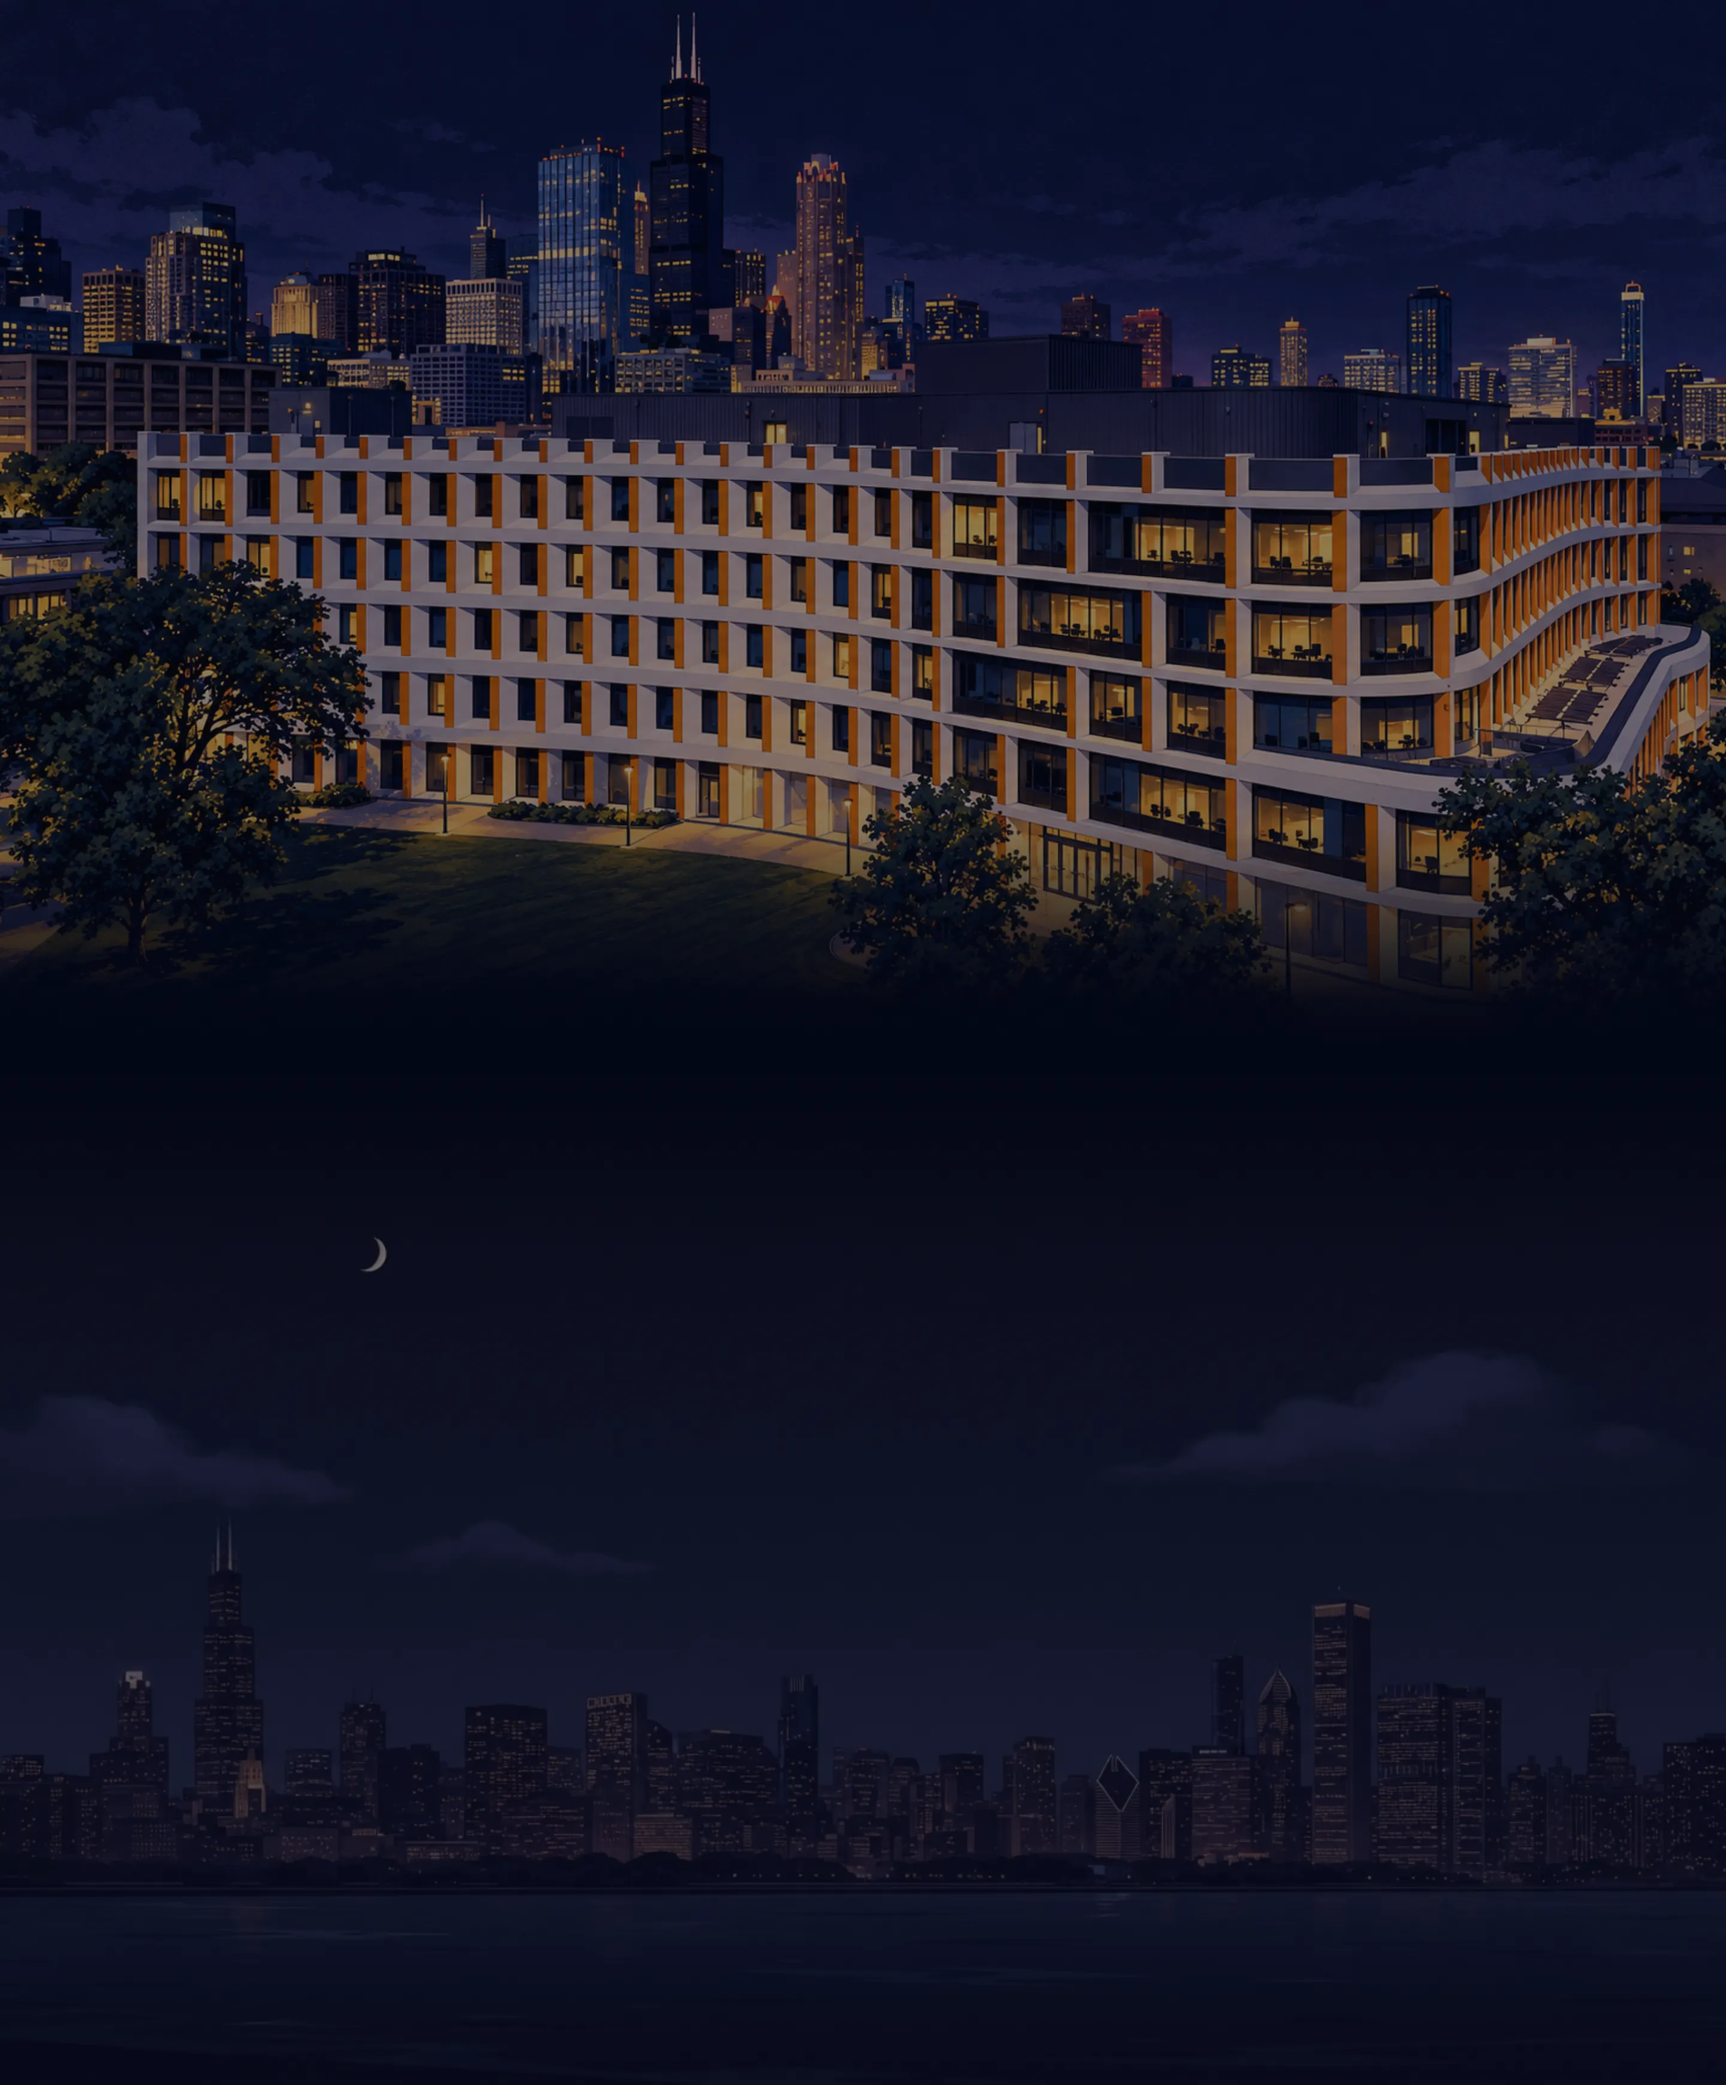
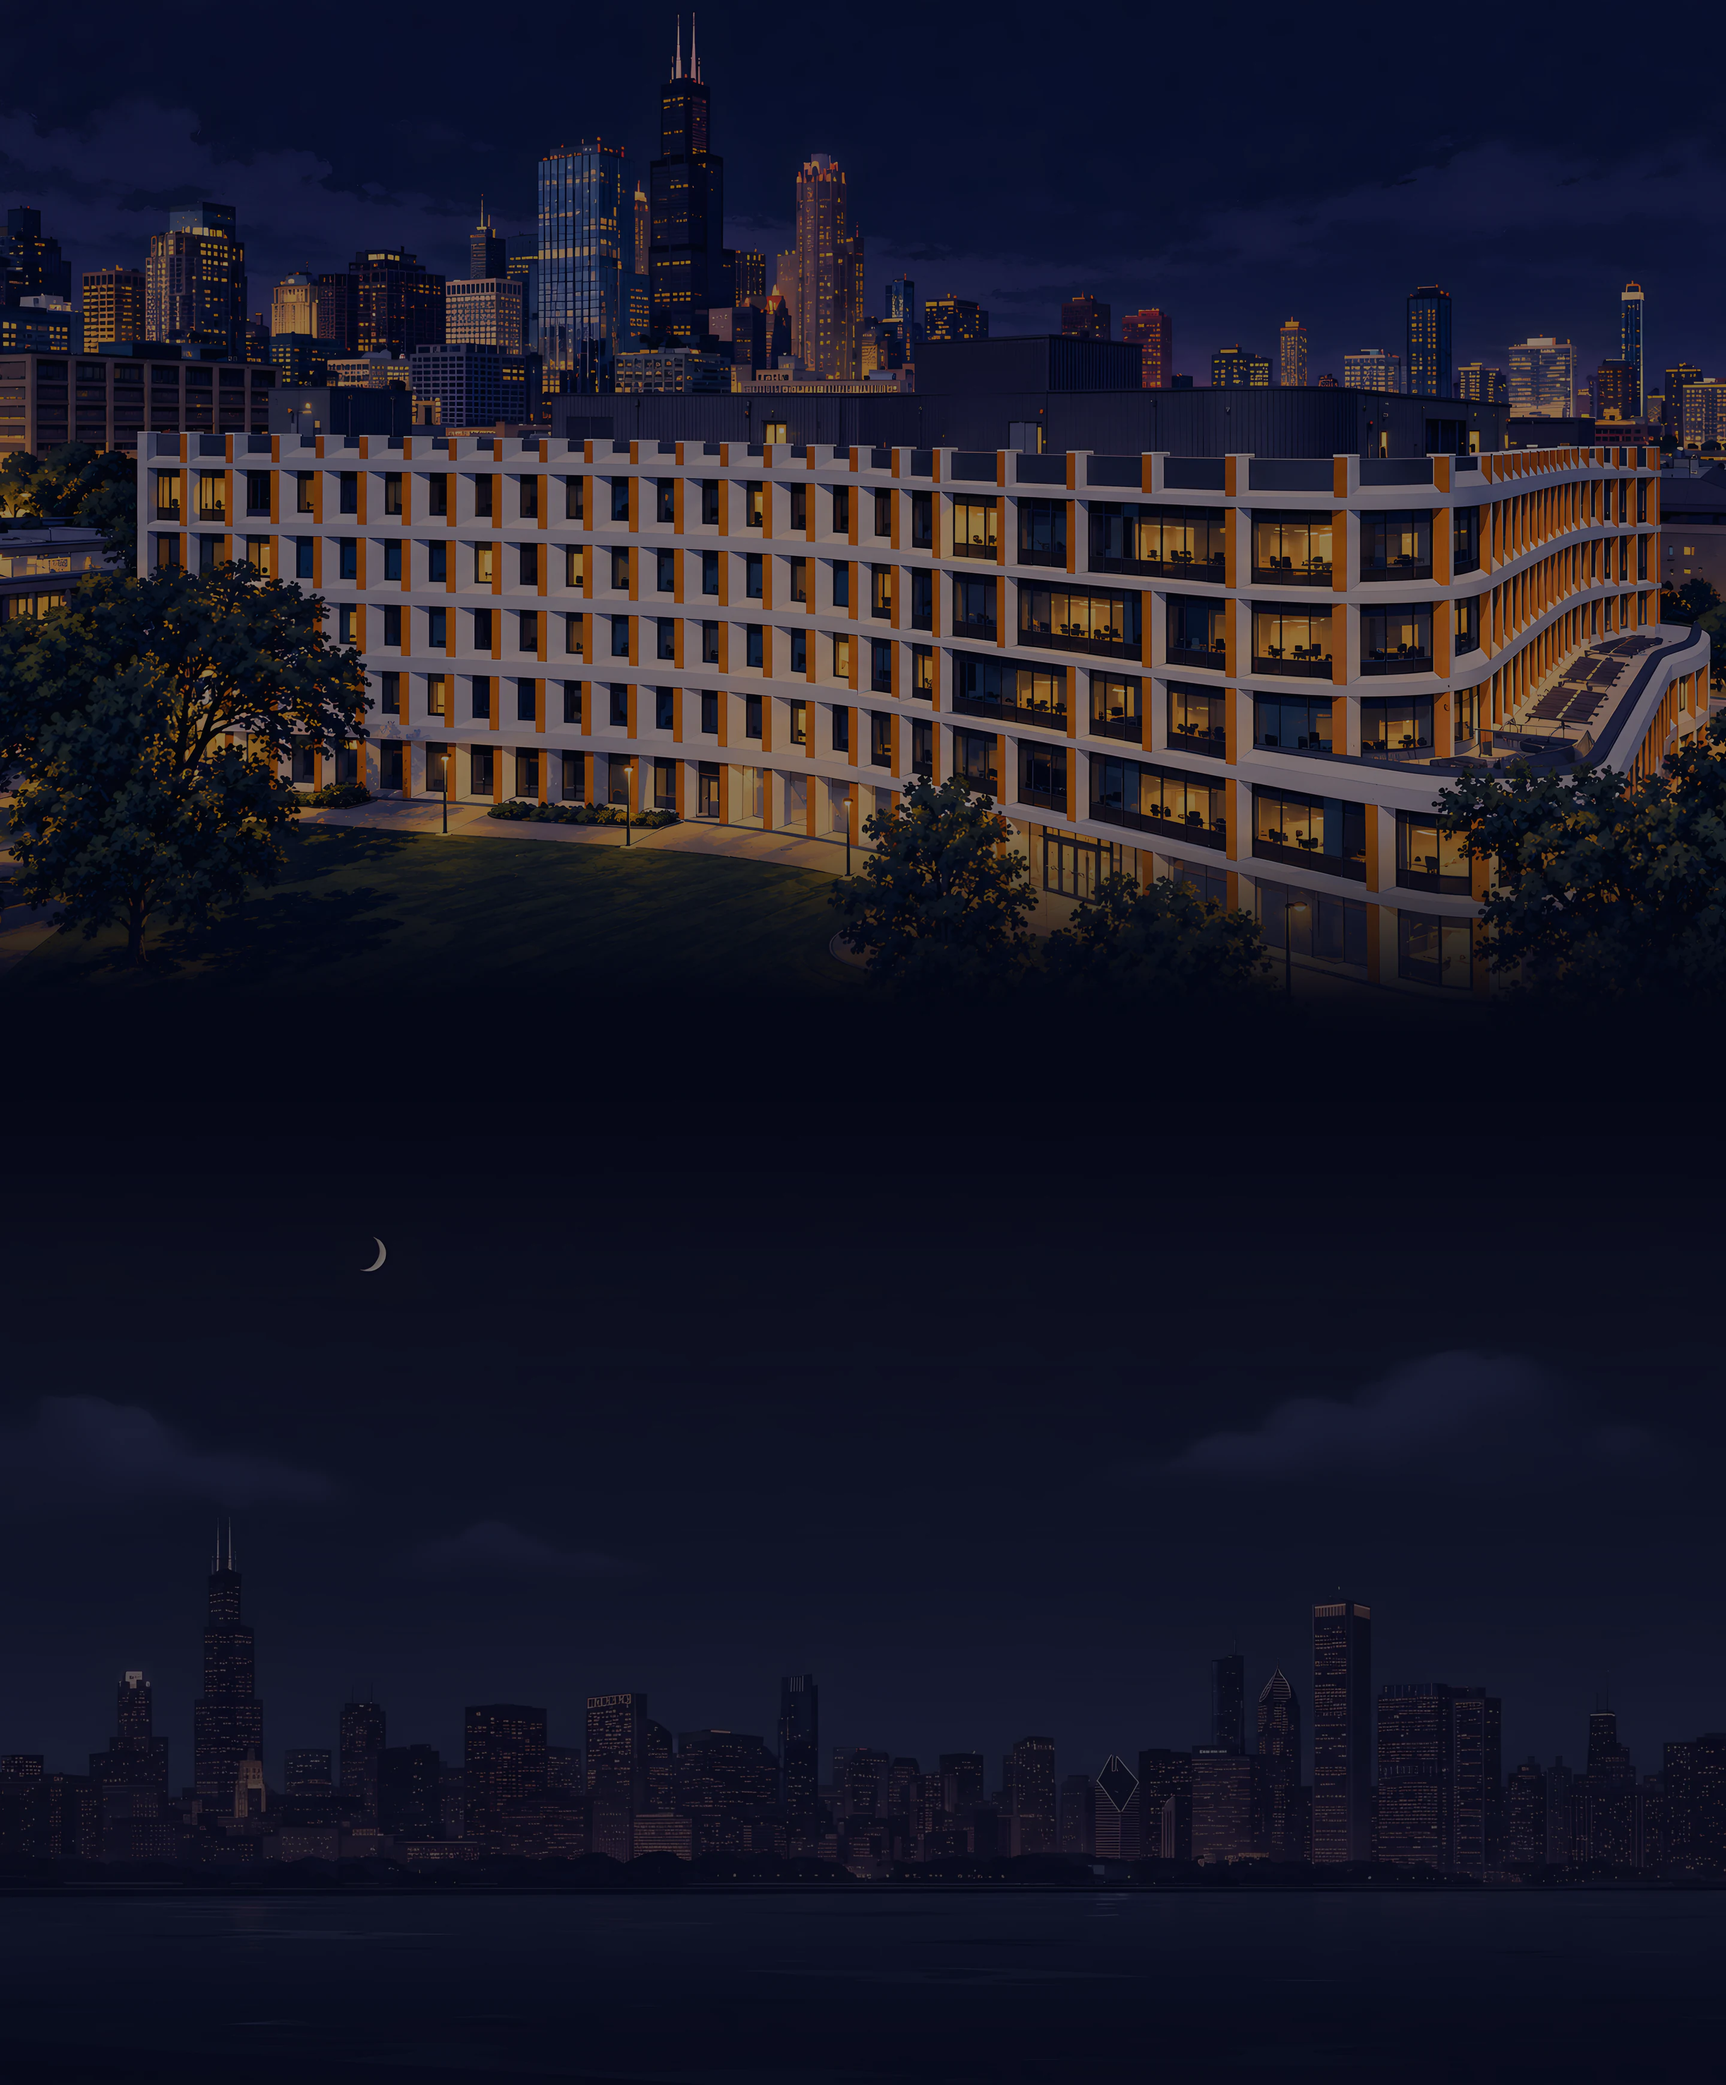
Website: sharper paintings
Each page painting is rebuilt from 4x AI upscales of the source art
(Upscayl standard model) in one resample, instead of a double-resampled
export. The open sky is smoothed to drop the sources' compression blocks
without touching stars, buildings or the moon. Phones get 3x art (1170
wide) for their 3x screens; WebP quality 88.

Claude-Session: https://claude.ai/code/session_01M99gCJgBHdA1k63eU8x9iE

diff --git a/src/components/club/JourneyBackdrop.tsx b/src/components/club/JourneyBackdrop.tsx
@@ -1,24 +1,24 @@
 /** logica.pen "HANDOFF · APPLY · Website · Desktop" frames (V3), exported at 2x with only their art
  * layers (panels, transitions, shades): [width, height, colour of its bottom edge]. */
 const art: Record<string, [number, number, string]> = {
-  "v3-home": [2880, 9426, "#080b1c"],
-  "v3-about": [2880, 2832, "#191521"],
-  "v3-events": [2880, 2424, "#0e101e"],
-  "v3-team": [2880, 3480, "#080b1c"],
+  "v3-home": [2880, 9426, "#090b1c"],
+  "v3-about": [2880, 2832, "#191421"],
+  "v3-events": [2880, 2424, "#0d101e"],
+  "v3-team": [2880, 3480, "#090b1c"],
   "v3-blog": [2880, 2240, "#090b1c"],
   "v3-join": [2880, 3980, "#0d0d1c"],
-  "v3-signin": [2880, 2424, "#090d1d"],
+  "v3-signin": [2880, 2424, "#090c1d"],
 };
 
-/** The matching "Website · Mobile" frames, also 2x: [width, height, colour of its bottom edge]. */
+/** The matching "Website · Mobile" frames at 3x (phones are 3x screens): [width, height, colour of its bottom edge]. */
 const phoneArt: Record<string, [number, number, string]> = {
-  "v3-home": [780, 5640, "#0d1124"],
-  "v3-about": [780, 2670, "#0e1228"],
-  "v3-events": [780, 1690, "#070b15"],
-  "v3-team": [780, 2410, "#060a15"],
-  "v3-blog": [780, 1590, "#070a1c"],
-  "v3-join": [780, 4030, "#2c2331"],
-  "v3-signin": [780, 1830, "#0b1121"],
+  "v3-home": [1170, 8460, "#0d1122"],
+  "v3-about": [1170, 4005, "#0e1228"],
+  "v3-events": [1170, 2535, "#060a14"],
+  "v3-team": [1170, 3615, "#050914"],
+  "v3-blog": [1170, 2385, "#080b1d"],
+  "v3-join": [1170, 6045, "#2c2432"],
+  "v3-signin": [1170, 2745, "#0b1122"],
 };
 
 /** Only real phones get the phone painting: a narrow desktop window (for example at 200% zoom)

diff --git a/public/journey/README.md b/public/journey/README.md
@@ -1,8 +1,11 @@
 Night art (V3) from `~/Documents/logica.pen`, the "HANDOFF · APPLY · Website" frames.
 
-- `v3-<page>.webp` is a desktop frame (1440 wide) and `v3-<page>-mobile.webp` its phone frame (390 wide),
-  both exported at 2x with only the art layers (painted panels, the dark bands between them, and the
-  shades). Content and glass panels are HTML, not part of the image.
+- `v3-<page>.webp` is a desktop frame (1440 wide, built at 2x) and `v3-<page>-mobile.webp` its phone
+  frame (390 wide, built at 3x for 3x phone screens). Only the art layers are in them (painted panels,
+  the dark bands between them, the shades); content and glass panels are HTML.
+- Built by `~/Documents/logica-assets/v3/compose.py` from 4x upscales (Upscayl, `upscayl-standard-4x`) of
+  the source paintings, with the open sky smoothed to remove the sources' compression blocks, then
+  `cwebp -q 88 -m 6 -sharp_yuv`.
 - Routes without their own frame reuse one of these; see `scenes` in `src/components/club/JourneyBackdrop.tsx`.
 - `dashboard-night.webp` is the painting behind the member dashboard.
 

diff --git a/DESIGN.md b/DESIGN.md
@@ -9,7 +9,7 @@ for the public pages, "App · Desktop" and "App · Mobile" for the dashboard. Fr
 
 | | Desktop | Phone (< 800px) |
 |---|---|---|
-| Art | `public/journey/v3-<page>.webp`, 2x of the 1440 frame | `v3-<page>-mobile.webp`, 2x of the 390 frame |
+| Art | `public/journey/v3-<page>.webp`, 2x of the 1440 frame | `v3-<page>-mobile.webp`, 3x of the 390 frame |
 | Objects | navy glass `rgb(11 18 48 / .5)`, 16px blur, 28px corners | denser glass `rgb(8 17 38 / .85)`, 18–22px corners |
 | Type | DM Sans 500; h1 54, h2 38, card titles 23, body 15–19 | DM Sans 600; h1 34, h2 22, titles 15, body 12–14 |
 | Accents | gold `#fecc15` kickers, rust `#b63814` buttons, logos in brand colors | gold `#ffd45c`, rows with hairlines instead of cards |
